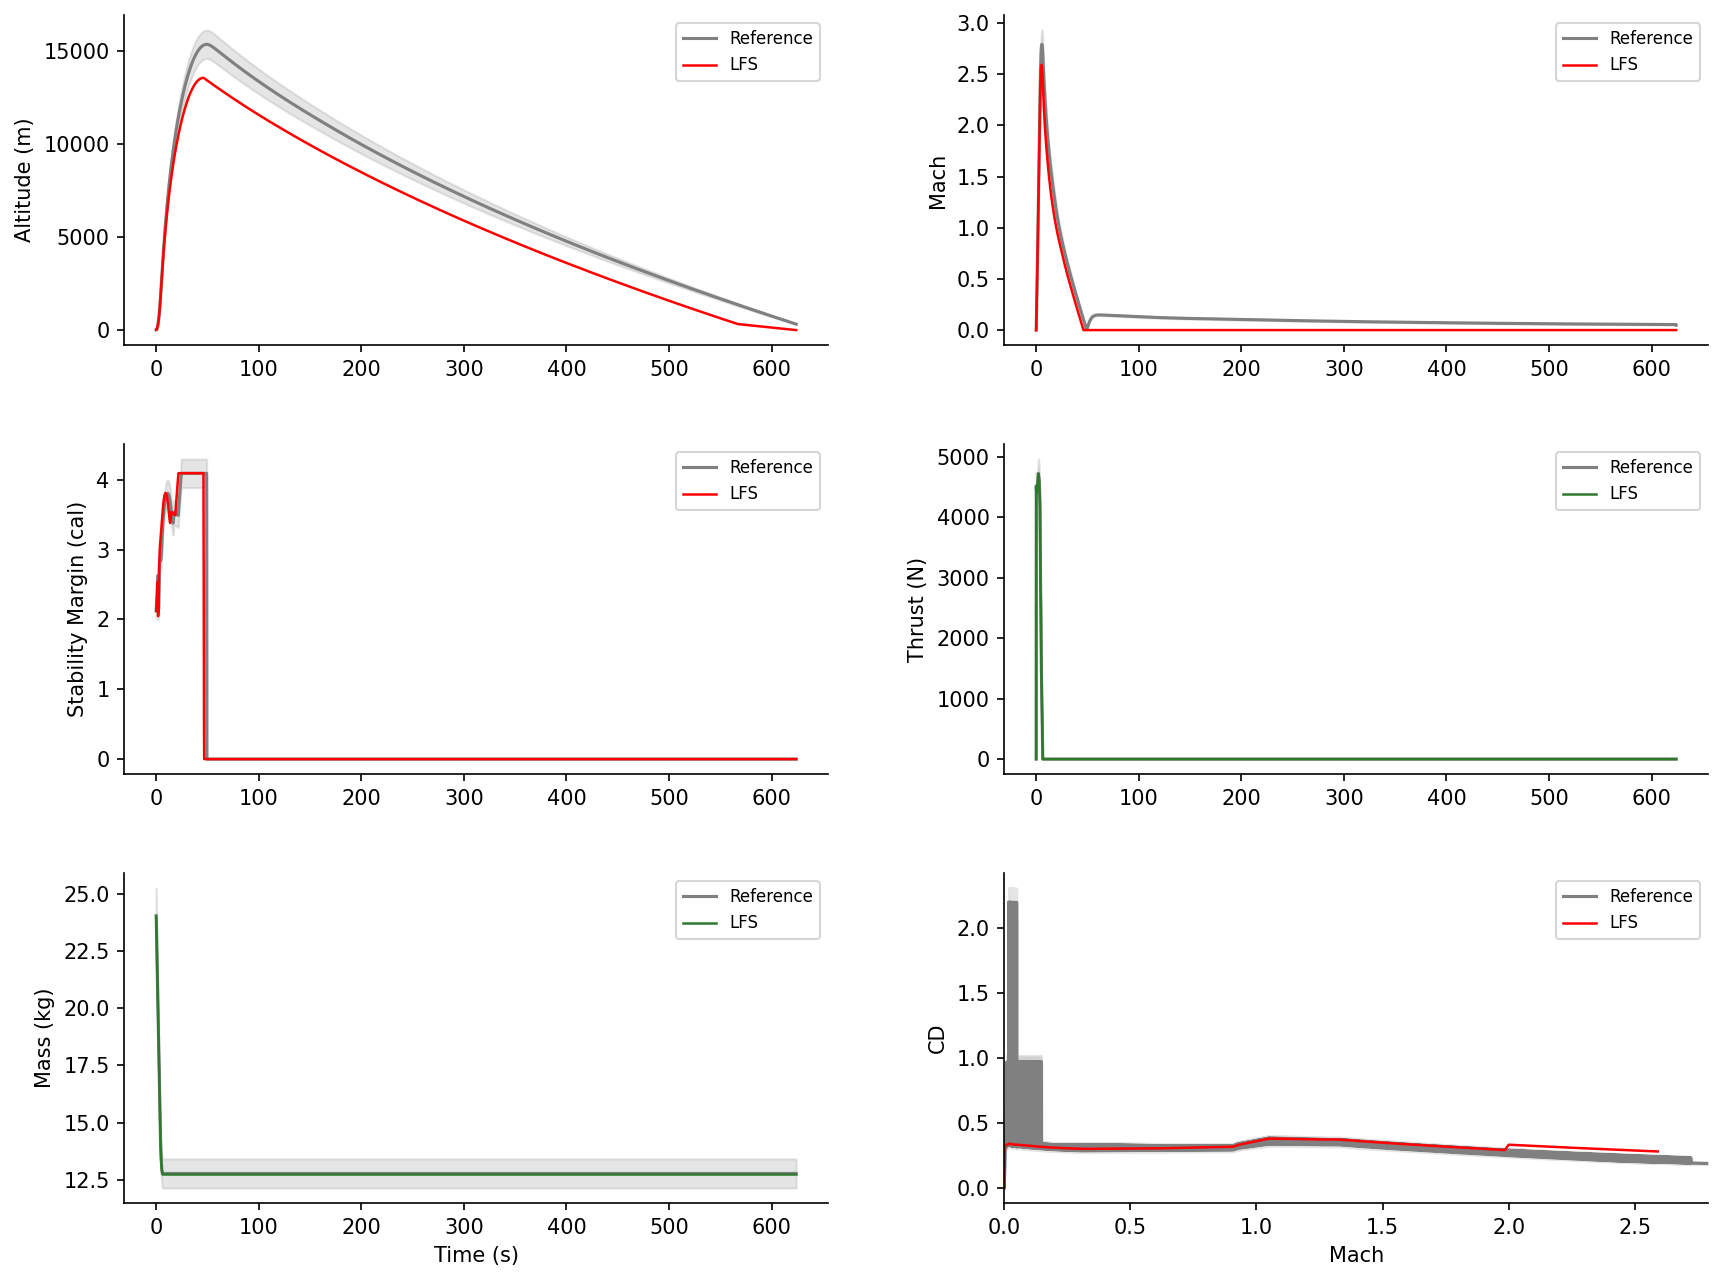
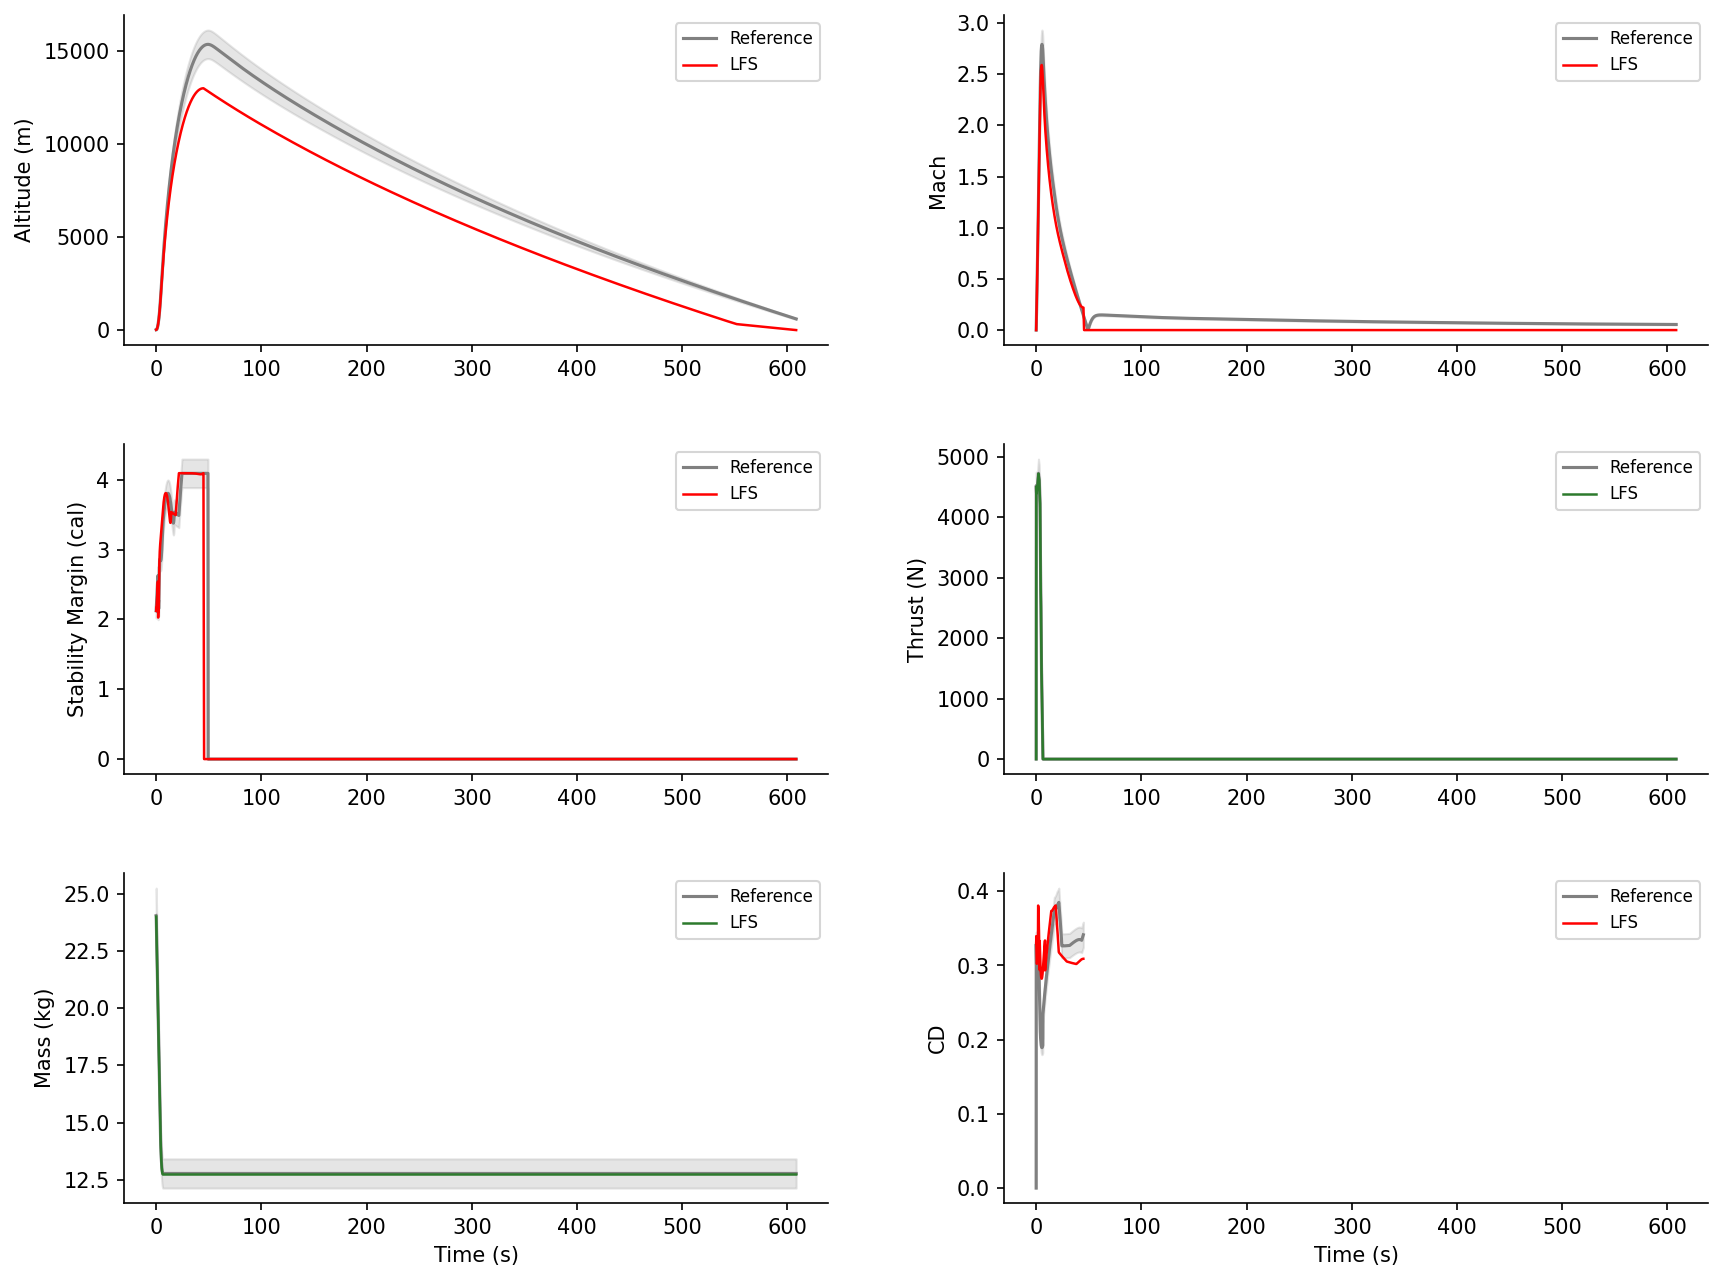
Rework CD verification: plot vs time, use true CD, truncate at apogee
The CD vs Mach plot was choppy because descent parachute CD values and
ascending/decelerating body CD values were interleaved when sorted by
Mach. Replaced with a CD vs time plot on the shared x-axis, truncated
at apogee so only body aerodynamic CD is shown. The LFS CD now uses
the true drag coefficient (CA·cos α + CN·sin α) rather than just CA.

diff --git a/verify.py b/verify.py
@@ -31,7 +31,7 @@ import matplotlib.figure
 
 from config import SimulationConfig, Vehicle, VerificationConfig
 from motor import PropellantModel
-from aerodynamics import AeroModel, aero_forces_moments, ca_at
+from aerodynamics import AeroModel, aero_forces_moments, ca_at, cn_cp_at
 from atmosphere import isa
 from wind import WindEnsemble
 from dynamics import (
@@ -92,10 +92,11 @@ _PLOT_LABELS: dict[str, str] = {
     "sm": "Stability Margin (cal)",
     "thrust": "Thrust (N)",
     "mass": "Mass (kg)",
+    "cd": "CD",
 }
 
-# Quantities to compare — 3×2 grid (last cell empty)
-_COMPARED_QUANTITIES: list[str] = ["altitude", "mach", "sm", "thrust", "mass"]
+# Quantities to compare — 3×2 grid
+_COMPARED_QUANTITIES: list[str] = ["altitude", "mach", "sm", "thrust", "mass", "cd"]
 
 
 # ---------------------------------------------------------------------------
@@ -115,22 +116,10 @@ class QuantityComparison:
 
 
 @dataclass
-class CdComparison:
-    """Drag coefficient comparison (CD vs Mach, not vs time)."""
-    ref_mach: np.ndarray
-    ref_cd: np.ndarray
-    sim_mach: np.ndarray
-    sim_cd: np.ndarray
-    tolerance: float
-    passed: bool
-
-
-@dataclass
 class VerificationResult:
     """Aggregate result of the trajectory comparison."""
     passed: bool
     comparisons: dict[str, QuantityComparison]
-    cd_comparison: CdComparison | None
     figure: matplotlib.figure.Figure | None
 
 
@@ -366,12 +355,17 @@ def _extract_trajectory_quantities_6dof(
 
         sm_asc[i] = (cp_whole - cg) / diameter if diameter > 0.0 else 0.0
 
-        # Drag coefficient (C_A at the actual AoA ≈ CD for small α)
+        # True drag coefficient: CD = CA·cos(α) + CN·sin(α)
         alpha_rad = math.atan2(math.sqrt(v * v + w * w), u) if V > 1.0e-6 else 0.0
-        cd_asc[i] = ca_at(
+        ca = ca_at(
             am.mach_grid, am.re_grid, am.alpha_grid, am.ca_table,
             M, Re, alpha_rad,
         )
+        cn, _ = cn_cp_at(
+            am.mach_grid, am.re_grid, am.alpha_grid,
+            am.cn_table, am.cp_table, M, Re, alpha_rad,
+        )
+        cd_asc[i] = ca * math.cos(alpha_rad) + cn * math.sin(alpha_rad)
 
     # --- Descent (thrust is zero, mass is dry, under parachute) ---
     if result.t_descent is not None and result.n_descent > 0:
@@ -484,28 +478,22 @@ def _compare_quantity(
 
 def _build_comparison_figure(
     comparisons: dict[str, QuantityComparison],
-    cd_comparison: "CdComparison | None" = None,
 ) -> matplotlib.figure.Figure:
     """Build a 3×2 comparison figure.
 
-    Five time-series quantities fill positions (0,0)–(2,0); the bottom-
-    right position (2,1) shows drag coefficient vs Mach number.
-    Reference in grey with tolerance band; simulator overlay in green
-    (pass) or red (fail).
+    Six time-series quantities fill all positions in a 3×2 grid, sharing
+    a common time x-axis.  Reference in grey with tolerance band;
+    simulator overlay in green (pass) or red (fail).
     """
     fig = plt.figure(figsize=(12, 9))
     fig.subplots_adjust(hspace=0.30, wspace=0.25, left=0.08, right=0.96,
                         top=0.95, bottom=0.07)
 
-    # Time-series axes share the x-axis (positions 0–4 in the 3×2 grid).
-    # The CD-vs-Mach axis (position 5) has its own x-axis.
     gs = fig.add_gridspec(3, 2)
     time_axes: list[matplotlib.axes.Axes] = []
     first_ax: matplotlib.axes.Axes | None = None
     for row in range(3):
         for col in range(2):
-            if row == 2 and col == 1:
-                continue  # reserve for CD vs Mach
             ax = fig.add_subplot(gs[row, col], sharex=first_ax)
             time_axes.append(ax)
             if first_ax is None:
@@ -542,38 +530,10 @@ def _build_comparison_figure(
     for idx in range(len(plotted_quantities), len(time_axes)):
         time_axes[idx].set_visible(False)
 
-    # X-label only on the visible bottom-row time axis
-    bottom_time_ax = time_axes[4] if len(time_axes) > 4 else time_axes[-1]
-    if bottom_time_ax.get_visible():
-        bottom_time_ax.set_xlabel("Time (s)")
-
-    # --- CD vs Mach (bottom-right) ---
-    if cd_comparison is not None:
-        ax_cd = fig.add_subplot(gs[2, 1])
-        ref_m = cd_comparison.ref_mach
-        ref_cd = cd_comparison.ref_cd
-        sim_m = cd_comparison.sim_mach
-        sim_cd = cd_comparison.sim_cd
-        tol = cd_comparison.tolerance
-
-        ax_cd.plot(ref_m, ref_cd,
-                   color="grey", linewidth=1.5, label="Reference")
-        ax_cd.fill_between(
-            ref_m,
-            ref_cd * (1.0 - tol),
-            ref_cd * (1.0 + tol),
-            color="grey", alpha=0.2,
-        )
-
-        sim_colour = "#2d7a2d" if cd_comparison.passed else "red"
-        ax_cd.plot(sim_m, sim_cd,
-                   color=sim_colour, linewidth=1.2, label="LFS")
-
-        ax_cd.set_xlabel("Mach")
-        ax_cd.set_ylabel("CD")
-        ax_cd.set_xlim(float(np.min(ref_m)), float(np.max(ref_m)))
-        ax_cd.legend(fontsize=8)
-        ax_cd.spines[["right", "top"]].set_visible(False)
+    # X-label on the bottom-row axes
+    for ax in time_axes[-2:]:
+        if ax.get_visible():
+            ax.set_xlabel("Time (s)")
 
     return fig
 
@@ -722,69 +682,46 @@ def run_verification(
         "sm": ver_cfg.sm_tolerance,
         "thrust": ver_cfg.thrust_tolerance,
         "mass": ver_cfg.mass_tolerance,
+        "cd": ver_cfg.cd_tolerance,
     }
+
+    # For CD, truncate at apogee: after apogee the reference CD is the
+    # parachute drag coefficient and the simulator sets CD to zero, so
+    # post-apogee values are not comparable as body aerodynamic CD.
+    ref_apogee = int(np.argmax(ref_data["altitude"])) + 1
+    sim_apogee = int(np.argmax(sim_data["altitude"])) + 1
 
     comparisons: dict[str, QuantityComparison] = {}
     for qty in _COMPARED_QUANTITIES:
         if qty not in ref_data:
             continue
+        if qty == "cd":
+            ref_t = ref_data["time"][:ref_apogee]
+            ref_v = ref_data["cd"][:ref_apogee]
+            sim_t = sim_data["time"][:sim_apogee]
+            sim_v = sim_data["cd"][:sim_apogee]
+        else:
+            ref_t = ref_data["time"]
+            ref_v = ref_data[qty]
+            sim_t = sim_data["time"]
+            sim_v = sim_data[qty]
         comparisons[qty] = _compare_quantity(
             name=qty,
-            ref_time=ref_data["time"],
-            ref_values=ref_data[qty],
-            sim_time=sim_data["time"],
-            sim_values=sim_data[qty],
+            ref_time=ref_t,
+            ref_values=ref_v,
+            sim_time=sim_t,
+            sim_values=sim_v,
             tolerance=tolerance_map[qty],
             exceedance_fraction=ver_cfg.exceedance_fraction,
         )
 
     all_passed = all(c.passed for c in comparisons.values())
 
-    # --- CD vs Mach comparison ---
-    cd_comparison: CdComparison | None = None
-    if "cd" in ref_data and "cd" in sim_data:
-        # Sort both by Mach for a clean plot
-        ref_order = np.argsort(ref_data["mach"])
-        ref_mach = ref_data["mach"][ref_order]
-        ref_cd = ref_data["cd"][ref_order]
-
-        sim_order = np.argsort(sim_data["mach"])
-        sim_mach = sim_data["mach"][sim_order]
-        sim_cd = sim_data["cd"][sim_order]
-
-        # Clip simulator to reference Mach range
-        m_min, m_max = float(ref_mach[0]), float(ref_mach[-1])
-        sim_mask = (sim_mach >= m_min) & (sim_mach <= m_max)
-        sim_mach = sim_mach[sim_mask]
-        sim_cd = sim_cd[sim_mask]
-
-        # Interpolate simulator CD onto reference Mach points for pass/fail
-        sim_cd_interp = np.interp(ref_mach, sim_mach, sim_cd)
-        floor = _TOLERANCE_FLOORS.get("cd", 0.01)
-        scale = np.maximum(np.abs(ref_cd), floor)
-        within = np.abs(sim_cd_interp - ref_cd) <= ver_cfg.cd_tolerance * scale
-        n_outside = int(np.sum(~within))
-        n_total = len(within)
-        cd_passed = (n_outside / n_total) <= ver_cfg.exceedance_fraction if n_total > 0 else True
-
-        cd_comparison = CdComparison(
-            ref_mach=ref_mach,
-            ref_cd=ref_cd,
-            sim_mach=sim_mach,
-            sim_cd=sim_cd,
-            tolerance=ver_cfg.cd_tolerance,
-            passed=cd_passed,
-        )
-
-        if not cd_passed:
-            all_passed = False
-
     # --- Build comparison figure ---
-    fig = _build_comparison_figure(comparisons, cd_comparison)
+    fig = _build_comparison_figure(comparisons)
 
     return VerificationResult(
         passed=all_passed,
         comparisons=comparisons,
-        cd_comparison=cd_comparison,
         figure=fig,
     )

diff --git a/cli.py b/cli.py
@@ -663,8 +663,9 @@ def verify(config_path: Path, azimuth: float | None,
     if dump_csv is not None:
         import csv
         dump_path = Path(dump_csv).resolve()
-        # All comparisons share the same ref_time (interpolated to reference timebase)
-        qty_names = list(ver_result.comparisons.keys())
+        # Quantities may span different time ranges (e.g. CD is
+        # truncated at apogee), so write each on its own timebase.
+        qty_names = [q for q in ver_result.comparisons if q != "cd"]
         first = ver_result.comparisons[qty_names[0]]
 
         with open(dump_path, "w", newline="", encoding="utf-8") as f:
@@ -682,6 +683,21 @@ def verify(config_path: Path, azimuth: float | None,
                     row.append(f"{c.sim_values[i]:.6f}")
                     row.append(f"{c.sim_values[i] - c.ref_values[i]:.6f}")
                 writer.writerow(row)
+
+        # CD comparison has a shorter timebase; append as a second file
+        if "cd" in ver_result.comparisons:
+            cd_cmp = ver_result.comparisons["cd"]
+            cd_path = dump_path.with_stem(dump_path.stem + "_cd")
+            with open(cd_path, "w", newline="", encoding="utf-8") as f:
+                writer = csv.writer(f)
+                writer.writerow(["time_s", "ref_cd", "lfs_cd", "err_cd"])
+                for i in range(len(cd_cmp.ref_time)):
+                    writer.writerow([
+                        f"{cd_cmp.ref_time[i]:.6f}",
+                        f"{cd_cmp.ref_values[i]:.6f}",
+                        f"{cd_cmp.sim_values[i]:.6f}",
+                        f"{cd_cmp.sim_values[i] - cd_cmp.ref_values[i]:.6f}",
+                    ])
 
         console.print(f"\nComparison data written to: {dump_path}")
 
